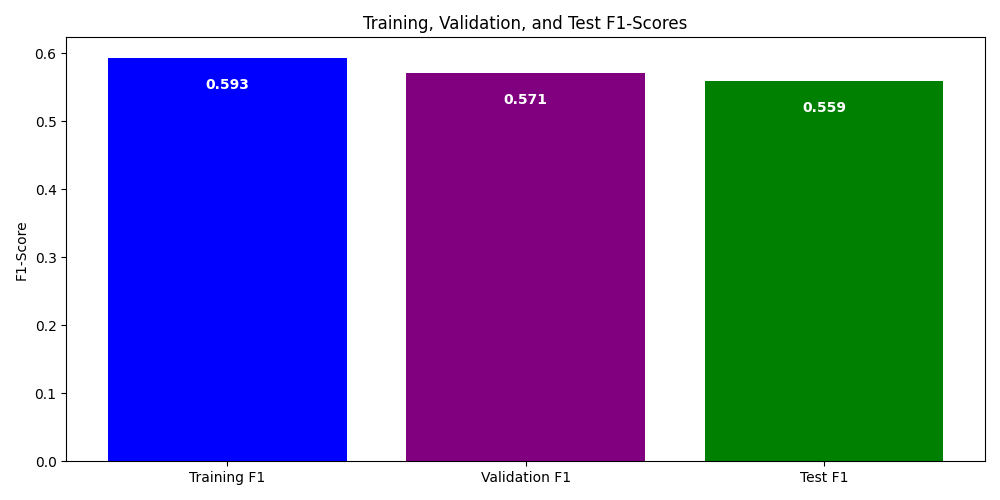
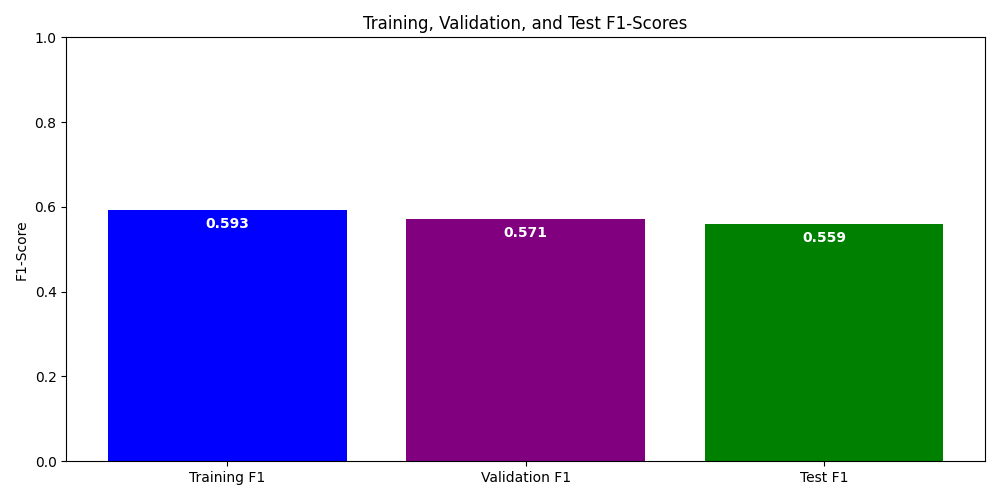
update source and add eval images

diff --git a/src/models/evaluate_text.py b/src/models/evaluate_text.py
@@ -1,0 +1,109 @@
+import torch
+from torch.utils.data import DataLoader
+from transformers import RobertaTokenizer, RobertaForSequenceClassification
+from sklearn.metrics import f1_score, classification_report
+from datasets import Dataset
+from text_custom_functions import tokenize_function, safe_loader, safe_saver
+import matplotlib.pyplot as plt
+import pandas as pd
+import pickle
+
+def evaluate_model():
+
+    test = pd.read_csv('data/processed/text_test_set.csv')
+    test_dataset = Dataset.from_pandas(test)
+
+    test_dataset = test_dataset.map(tokenize_function, batched = True,
+                                    num_proc = 4)
+    test_dataset.set_format(type = 'torch', columns = ['input_ids', 'attention_mask', 'labels'])
+    test_loader = DataLoader(test_dataset, batch_size = 64, shuffle = False)
+
+    
+    device = torch.device('cuda' if torch.cuda.is_available() else 'cpu')
+    model = RobertaForSequenceClassification.from_pretrained('roberta-base',
+                                                           num_labels = 27)
+    model.load_state_dict(torch.load('models/roBERTa_model_weights.pth',
+                                     weights_only = True))
+    model = model.to(device)
+
+    model.eval()
+
+    test_preds = []
+    test_labels = []
+
+    for batch in test_loader:
+
+        input_ids = batch['input_ids'].to(device)
+        attention_mask = batch['attention_mask'].to(device)
+        labels = batch['labels'].to(device)
+
+        outputs = model(input_ids, attention_mask = attention_mask)
+        logits = outputs.logits
+        predicted_classes = torch.argmax(logits, dim = 1).detach().cpu().numpy()
+        labels = labels.cpu().numpy()
+
+        test_labels.extend(labels)
+        test_preds.extend(predicted_classes)
+
+    test_f1 = f1_score(test_labels, test_preds, average = 'weighted')
+    test_report = classification_report(test_labels, test_preds, output_dict = True)
+        
+    safe_saver(test_report, 'metrics/roBERTa_classification_report.pkl')
+    history = safe_loader('metrics/roBERTa_performance.pkl')
+
+    labels = ['Training F1-Score', 'Validation F1-Score', 'Test F1-Score']
+    scores = [max(history['f1']), max(history['val_f1']), test_f1]
+
+    fig = plt.figure(figsize = (20, 10))
+
+    bars = plt.bar(labels, scores, color = ['blue', 'purple', 'green'])
+
+    for bar in bars:
+        yval = round(bar.get_height(), 3)
+        plt.text(bar.get_x() + bar.get_width() /2, yval - 0.05, str(yval),
+                 ha = 'center', va = 'bottom', color = 'white', fontweight = 'bold')
+
+    plt.ylabel('F1-Score')
+    plt.title('Training, Validation, and Text F1-Scores')
+    plt.tight_layout()
+
+    plt.savefig('images/roBERTa_f1_scores.png')
+
+    fig, ax = plt.subplots(1, 3, figsize = (20, 5))
+
+    titles = ['Loss', 'F1-Score', 'Gradient']
+    training_items = ['loss', 'f1', 'gradient']
+    validation_items = ['val_loss', 'val_f1']
+
+    ticks = [1]
+    for tick in range(1, len(history['loss'])  + 1):
+        if tick % 5 == 0:
+            ticks.append(tick)
+
+    for index, axes in enumerate(ax.flat):
+
+        if index == 2:
+            axes.plot(range(1, len(history[training_items[index]]) + 1),
+                            history[training_items[index]], label = 'Training')
+            axes.set_xticks(ticks)
+            axes.set_title(f"{titles[index]} by Epoch")
+            axes.set_xlabel('Epoch')
+            axes.set_ylabel(f"{titles[index]}")
+            break
+
+        axes.plot(range(1, len(history[training_items[index]]) + 1),
+                        history[training_items[index]], label = 'Training')
+        axes.plot(range(1, len(history[validation_items[index]]) + 1),
+                        history[validation_items[index]], label = 'Validation')
+        axes.set_xticks(ticks)
+        axes.set_title(f"{titles[index]} by Epoch")
+        axes.set_xlabel('Epoch')
+        axes.set_ylabel(f"{titles[index]}")
+        axes.legend()
+
+    plt.tight_layout()
+    plt.savefig('images/roBERTa_training_history.png')
+    
+
+if __name__ == '__main__':
+    evaluate_model()

diff --git a/src/models/roBERTa.py b/src/models/roBERTa.py
@@ -2,15 +2,13 @@ import torch
 import torch.nn as nn
 from torch.utils.data import DataLoader
 import torch.optim as optim
-from transformers import RobertaTokenizer, RobertaForSequenceClassification
+from transformers import RobertaForSequenceClassification
 from sklearn.utils.class_weight import compute_class_weight
 from sklearn.metrics import f1_score
 from datasets import Dataset
-from text_custom_functions import EarlyStopping
+from text_custom_functions import EarlyStopping, tokenize_function, safe_saver
 import pandas as pd
 import numpy as np
-import pickle
-import gc
 
 def train_roBERTa():
 
@@ -19,23 +17,17 @@ def train_roBERTa():
 
     train_dataset = Dataset.from_pandas(training)
     validation_dataset = Dataset.from_pandas(validation)
-    
-    tokenizer = RobertaTokenizer.from_pretrained("roberta-base")
-
-    def tokenize_function(dataset):
-        return tokenizer(dataset['designation_filtered'], padding = "max_length",
-                         truncation = True, max_length = 128)
 
     train_dataset = train_dataset.map(tokenize_function, batched = True, num_proc = 4)
     validation_dataset = validation_dataset.map(tokenize_function, batched = True, num_proc = 4)
-    train_dataset.set_format(type = "torch", columns = ["input_ids", "attention_mask", "labels"])
-    validation_dataset.set_format(type = "torch", columns = ["input_ids", "attention_mask", "labels"])
+    train_dataset.set_format(type = 'torch', columns = ['input_ids', 'attention_mask', 'labels'])
+    validation_dataset.set_format(type = 'torch', columns = ['input_ids', 'attention_mask', 'labels'])
     training_loader = DataLoader(train_dataset, batch_size = 64, shuffle = True)
     validation_loader = DataLoader(validation_dataset, batch_size = 64, shuffle = False)
 
     device = torch.device('cuda' if torch.cuda.is_available() else 'cpu')
 
-    model = RobertaForSequenceClassification.from_pretrained("roberta-base",  num_labels = 27)
+    model = RobertaForSequenceClassification.from_pretrained('roberta-base',  num_labels = 27)
 
     for i, layer in enumerate(model.roberta.encoder.layer):
         if i < len(model.roberta.encoder.layer) - 5:
@@ -160,8 +152,7 @@ def train_roBERTa():
     model.load_state_dict(early_stopping.best_f1_model)
     torch.save(model.state_dict(), f'models/roBERTa_model_weights.pth')
 
-    with open(f'metrics/roBERTa_performance.pkl', 'wb') as f:
-        pickle.dump(history, f)
+    safe_saver(history, 'metrics/roBERTa_performance.pkl')
 
     print('roBERTa model and training metrics saved.')
 

diff --git a/src/models/evaluate_CNN.py b/src/models/evaluate_CNN.py
@@ -11,18 +11,23 @@ from PIL import Image
 import matplotlib.pyplot as plt
 import numpy as np
 import pandas as pd
+import json
+
 
 def resize_image(img):
     return resizing(img, 224)
 
 def evaluate_model():
-
+    
     test = pd.read_csv('data/processed/test_CNN.csv')
     image_labels = test['target'].copy()
     unique_labels = sorted(set(test['target']))
     label_to_index = {label: idx for idx, label in enumerate(unique_labels)}
     test['target'] = test['target'].map(label_to_index)
-    
+
+    with open('data/processed/test_label_dictionary.json', 'w') as f:
+        json.dump(label_to_index, f)
+
     img_dir = 'data/images/image_train/'
 
     test_transform = transforms.Compose([
@@ -90,7 +95,8 @@ def evaluate_model():
         yval = round(bar.get_height(), 3)
         plt.text(bar.get_x() + bar.get_width() / 2, yval - 0.05, str(yval),
                  ha = 'center', va = 'bottom', color = 'white', fontweight = 'bold')
-    
+
+    plt.ylim(0, 1)
     plt.ylabel('F1-Score')
     plt.title('Training, Validation, and Test F1-Scores')
     plt.tight_layout()

diff --git a/src/models/text_custom_functions.py b/src/models/text_custom_functions.py
@@ -1,3 +1,7 @@
+from transformers import RobertaTokenizer
+import pickle
+import os
+
 class EarlyStopping:
     def __init__(self, patience = 6):
         self.patience = patience
@@ -22,3 +26,25 @@ class EarlyStopping:
                 return True
                     
         return False
+
+tokenizer = RobertaTokenizer.from_pretrained('roberta-base')
+
+def tokenize_function(dataset):
+    return tokenizer(dataset['designation_filtered'], padding = 'max_length',
+                     truncation = True, max_length = 128)
+
+def safe_loader(path):
+    if not os.path.exists(path):
+        raise FileNotFoundError(f"No file found at: {path}")
+    if os.path.getsize(path) == 0:
+        raise EOFError(f"File is empty at: {path}")
+
+    with open(path, 'rb') as f:
+        item = pickle.load(f)
+
+    return item
+
+def safe_saver(item, path):
+    os.makedirs(os.path.dirname(path), exist_ok = True)
+    with open(path, 'wb') as f:
+        pickle.dump(item, f)
